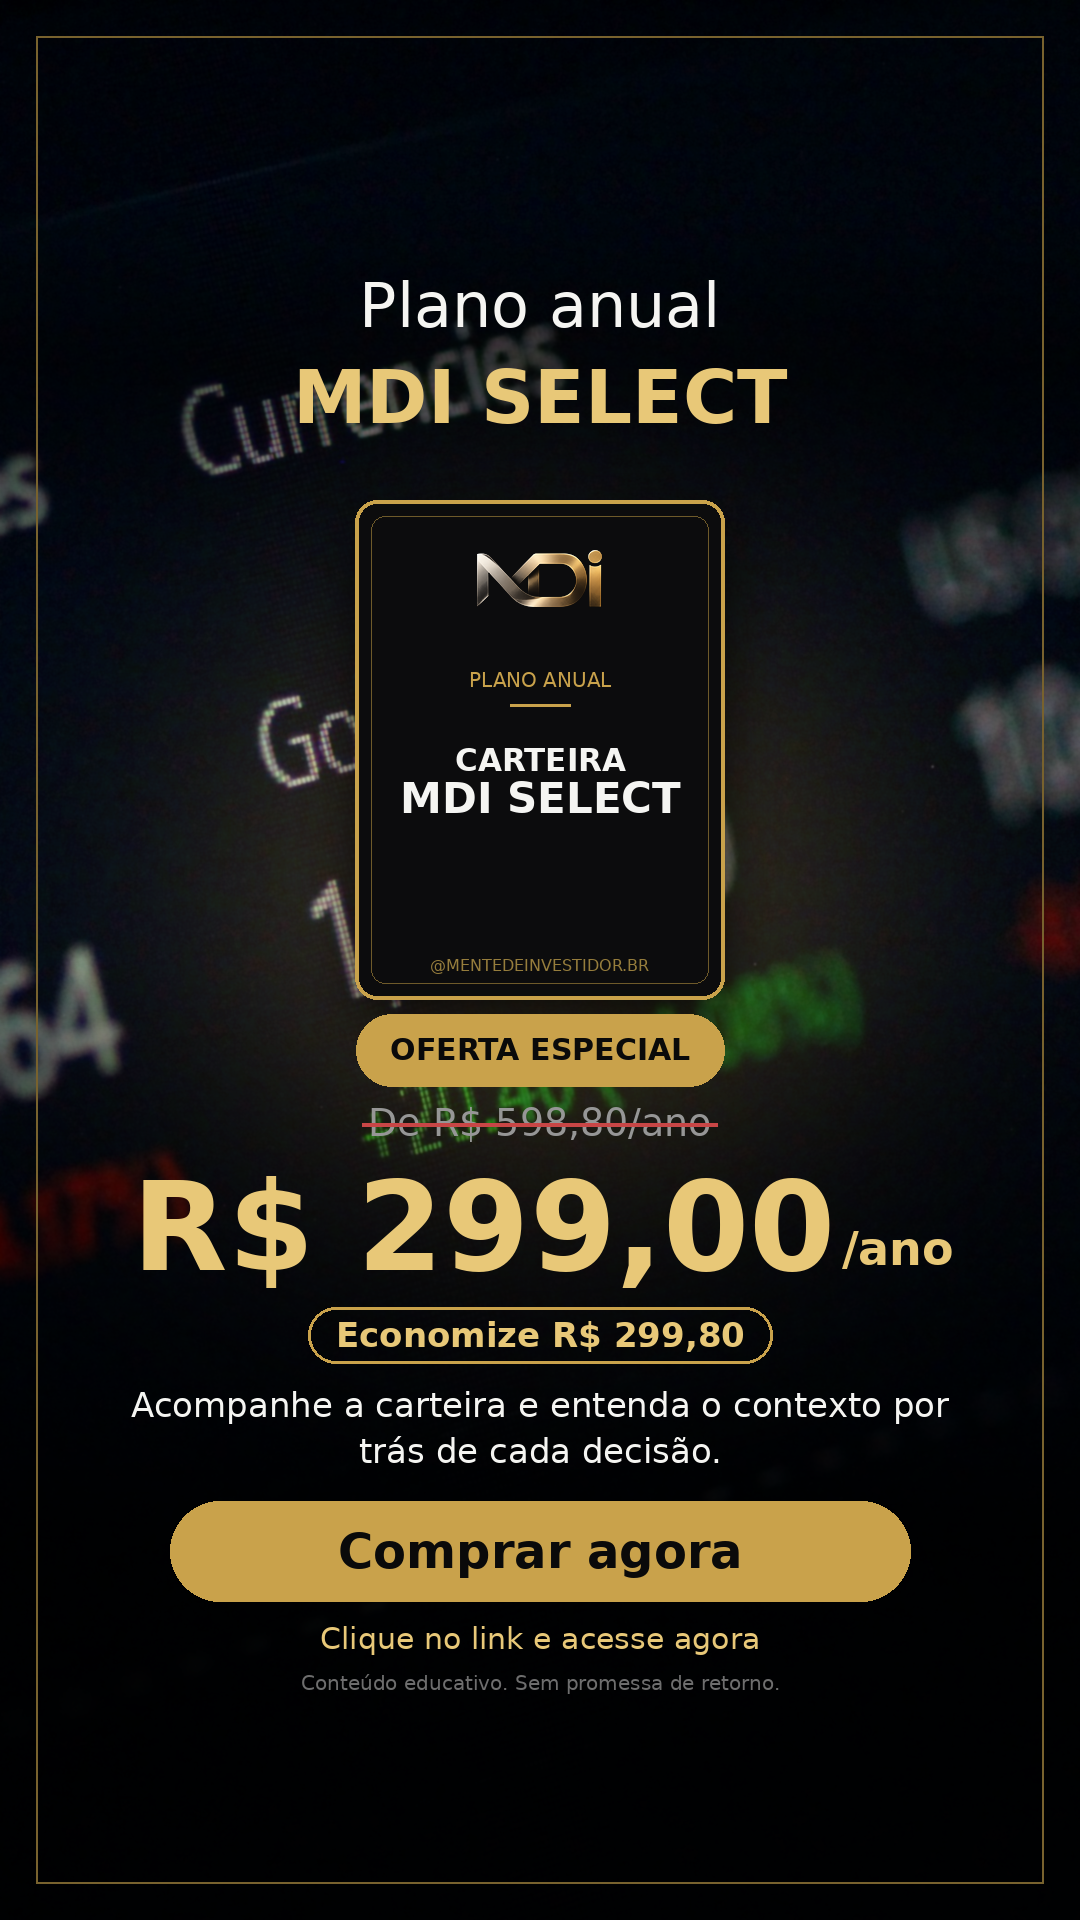
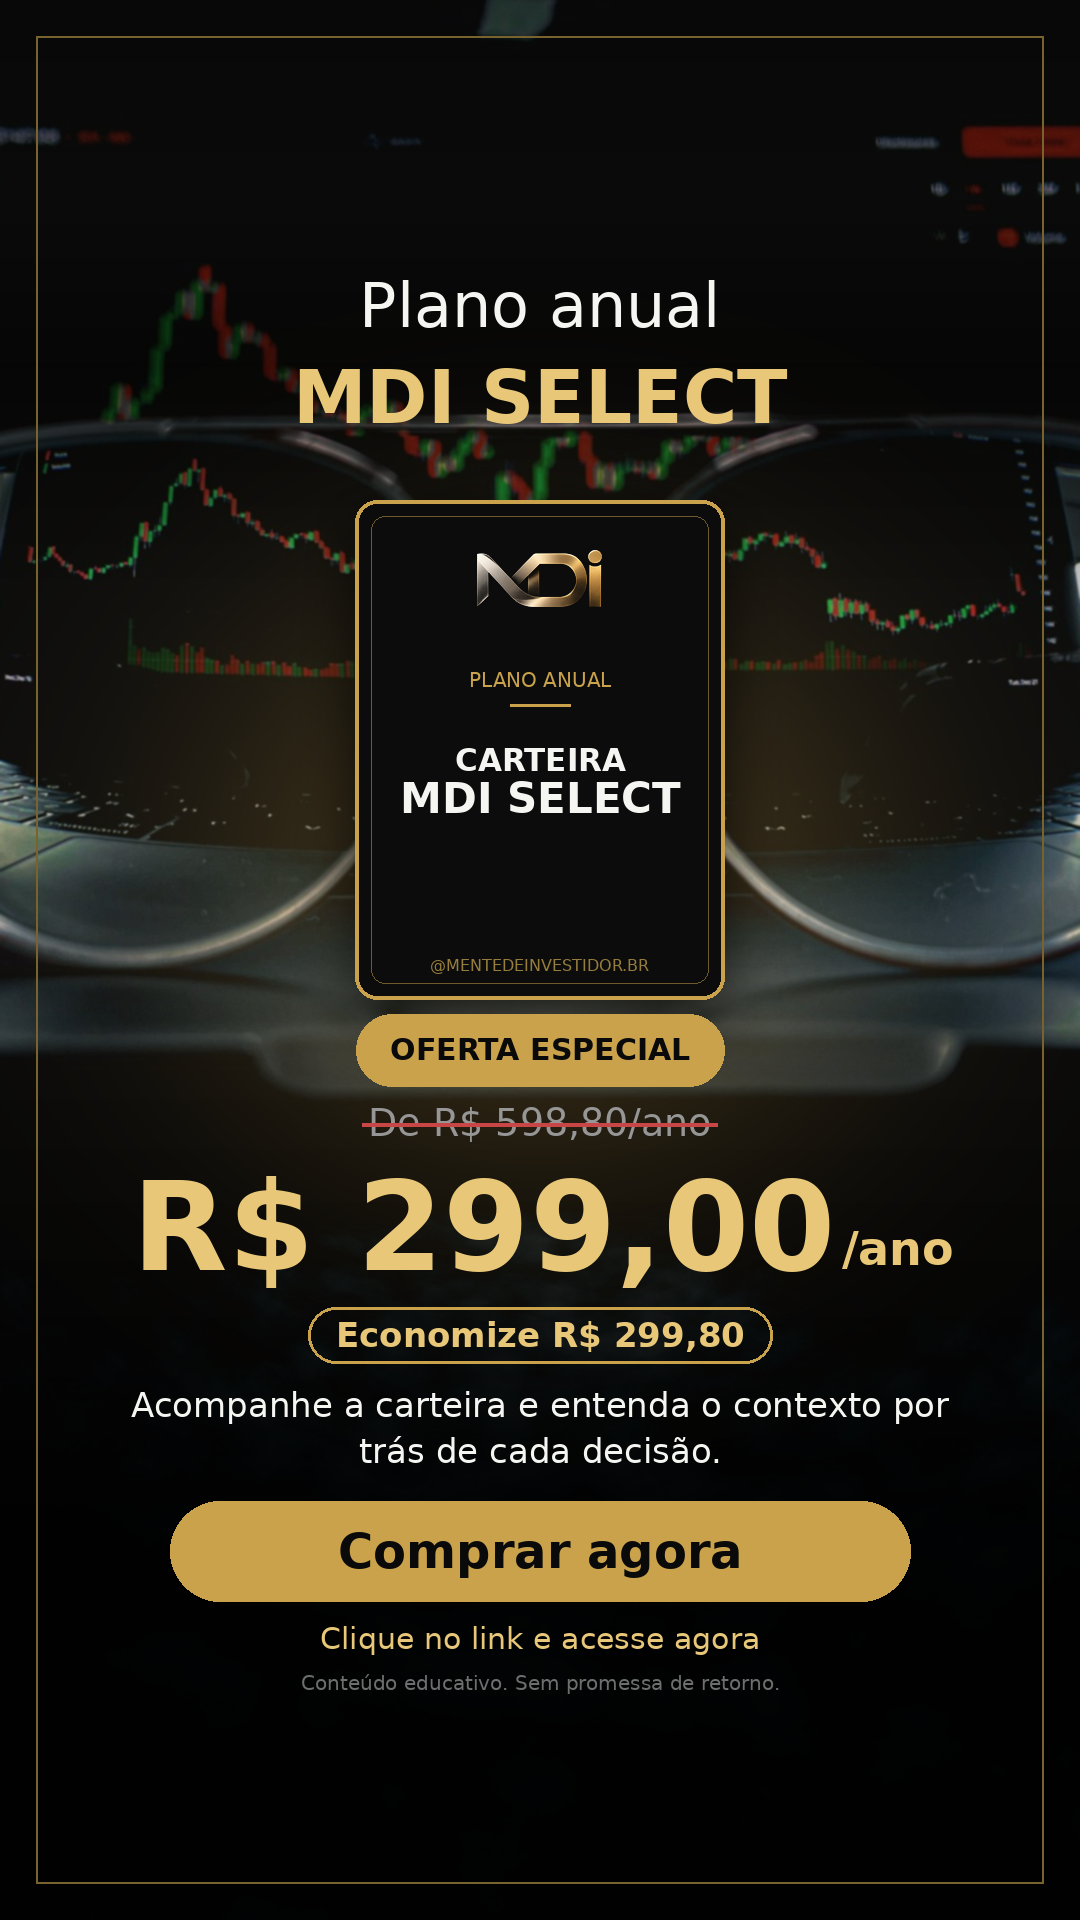
Story anual: foto sem texto sobreposto
Claude-Session: https://claude.ai/code/session_01HXZ2xaw8QNUWkmvzmhEw9N

diff --git a/scripts/story_venda.py b/scripts/story_venda.py
@@ -18,7 +18,7 @@ PRODUTOS = [
          de="De R$ 49,90/mês", por="R$ 29,90", sufixo="/mês",
          beneficio="Acompanhe a carteira e entenda o contexto por trás de cada decisão.",
          link="https://pay.hub.la/Mu9W039KCOgYORN61aVk"),
-    dict(id="mdi-select-anual", foto="g9eo.jpg", titulo=["Plano anual", "**MDI SELECT**"], tag="PLANO ANUAL", capa=["CARTEIRA", "MDI SELECT"],
+    dict(id="mdi-select-anual", foto="chart.jpg", titulo=["Plano anual", "**MDI SELECT**"], tag="PLANO ANUAL", capa=["CARTEIRA", "MDI SELECT"],
          de="De R$ 598,80/ano", por="R$ 299,00", sufixo="/ano", destaque="Economize R$ 299,80",
          beneficio="Acompanhe a carteira e entenda o contexto por trás de cada decisão.",
          link="https://pay.hub.la/Mu9W039KCOgYORN61aVk",
